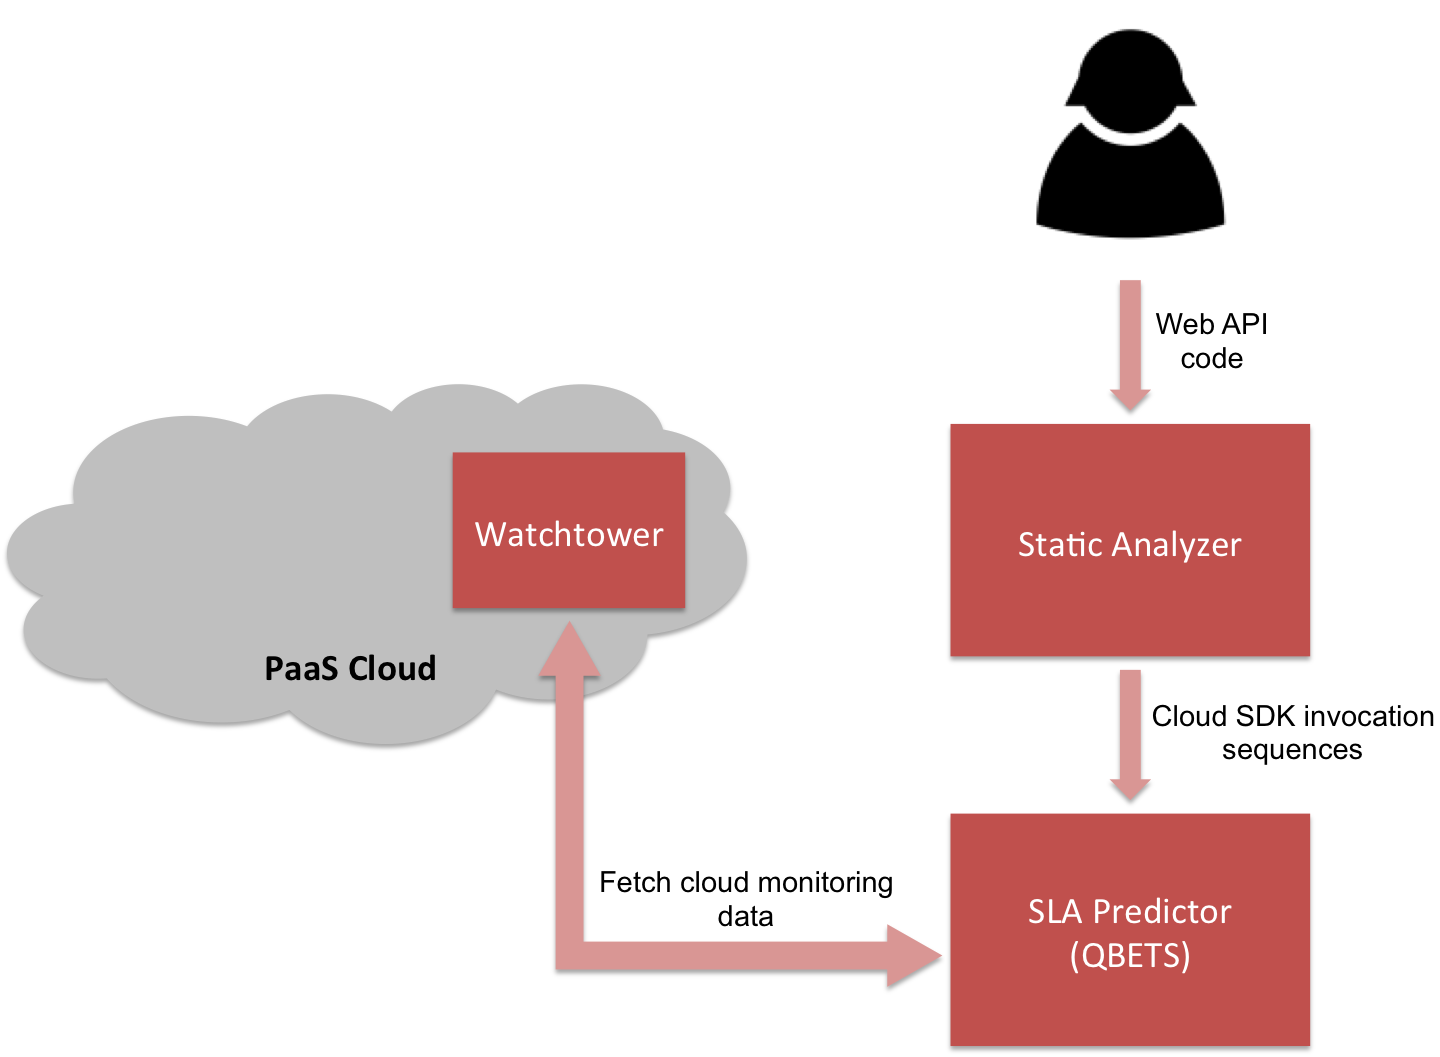
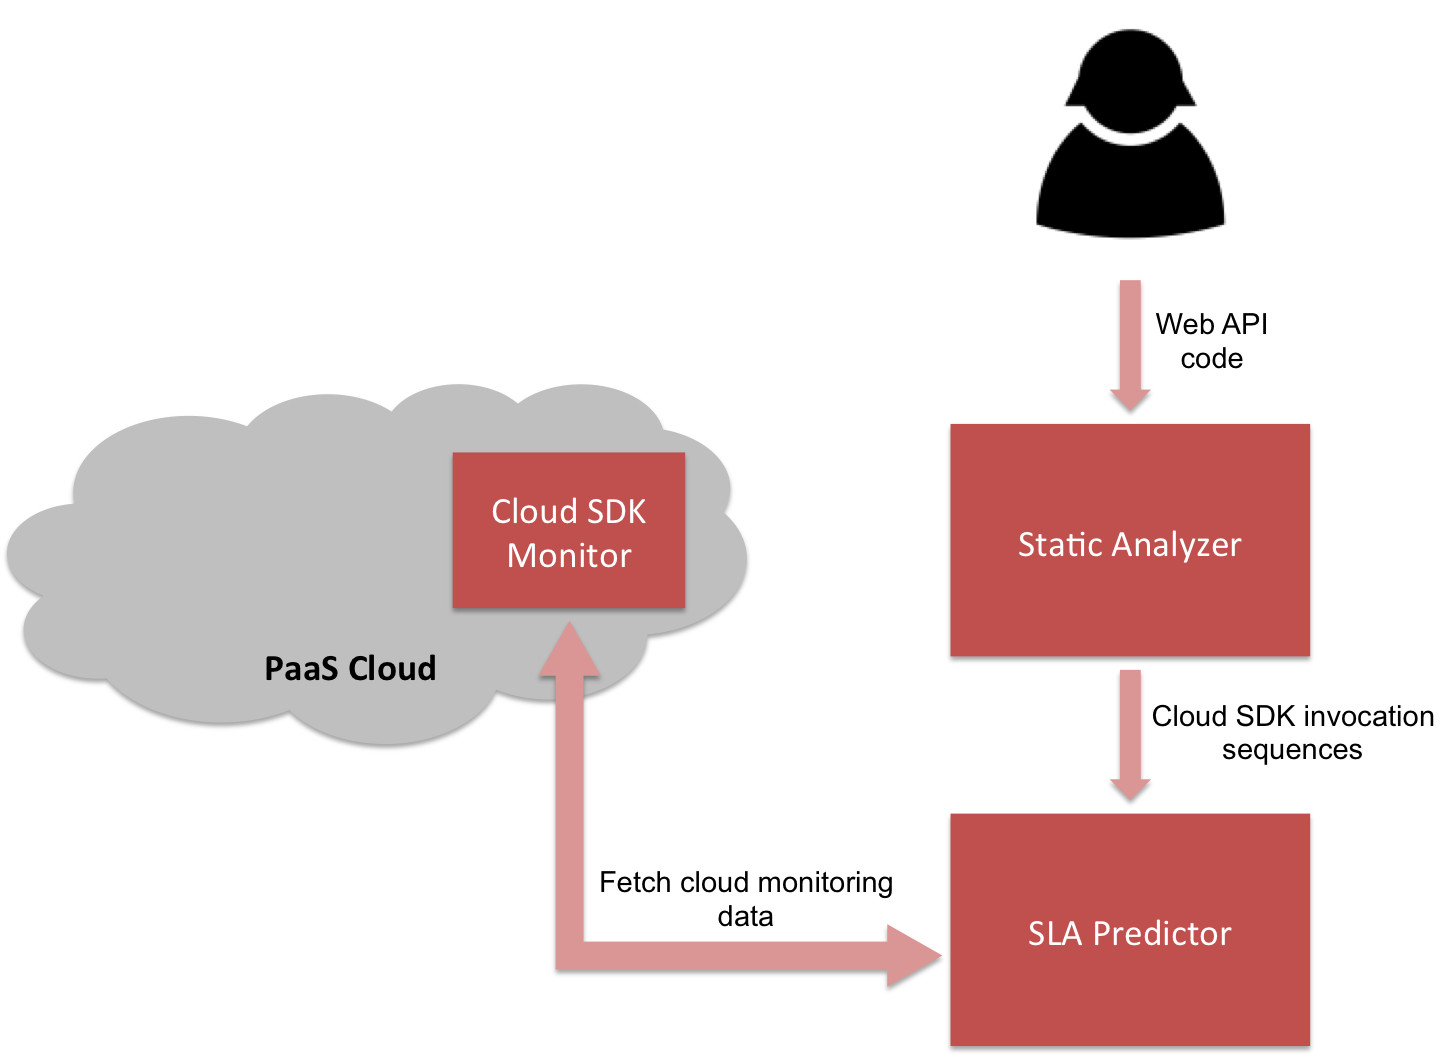
updated design section

Changed region(s): [[0.7188, 0.843, 0.8438, 0.9366], [0.3125, 0.4683, 0.4688, 0.5307]]

diff --git a/Eager/paper/oopsla/design.tex b/Eager/paper/oopsla/design.tex
@@ -11,6 +11,16 @@ code.
 \item A monitoring agent that runs in the target cloud platform to monitor the performance of its individual cloud SDK
 operations.
 \end{itemize}
+
+\begin{figure}
+\centering
+\includegraphics[scale=0.35]{cerebro_arch}
+\caption{Cerebro architecture and component interactions.}
+\label{fig:cerebro_arch}
+\end{figure}
+
+Additionally, we need a component that combines the results generated by above two components
+to make SLA predictions. Figure~\ref{fig:cerebro_arch} shows an overview of the resulting architecture.
  
  \subsection{Program Static Analysis Component}
  This component analyzes the source code (or some intermediate representation of it), to identify
@@ -242,19 +252,19 @@ of the API execution time, with an upper confidence of 0.01, we should feed QBET
 contains at least 90 data points. Watchtower should take this into consideration, when garbage collecting old
 time series data. %That is, it should always keep enough data points so that QBETS have enough data to analyze.
 
-\subsection{Overall Architecture and Workflow}
+\subsection{Cerebro Workflow}
 
-\begin{figure}
-\centering
-\includegraphics[scale=0.35]{cerebro_arch}
-\caption{Cerebro architecture and component interactions.}
-\label{fig:cerebro_arch}
-\end{figure}
+%\begin{figure}
+%\centering
+%\includegraphics[scale=0.35]{cerebro_arch}
+%\caption{Cerebro architecture and component interactions.}
+%\label{fig:cerebro_arch}
+%\end{figure}
 
-Figure~\ref{fig:cerebro_arch} illustrates all the components of Cerebro and how they interact with each other. 
+%Figure~\ref{fig:cerebro_arch} illustrates all the components of Cerebro and how they interact with each other. 
 Cerebro can be called into action by the web API developers, either at the development time or when the
 API is ready to be deployed in the cloud. Developer submits the web API source code (or some intermediate
-representation of it) to Cerebro, which is then processed by the static analyzer component. The static
+representation of it) to Cerebro, which is processed by the static analyzer. The static
 analyzer extracts the sequences of cloud SDK invocations from the web API code, and hands them over
 to the SLA predictor. SLA predictor then contacts Watchtower to retrieve the relevant cloud SDK operation
 benchmark data (time series). Afterwards it aggregates the received time series data, and processes
@@ -266,10 +276,8 @@ The resulting Cerebro predictions can be used in many ways. In the simplest case
 used to clearly document the API SLAs, so that API consumers can stay informed about what 
 type of performance to expect from the APIs they use. In a somewhat advanced context, Cerebro
 predictions can guide the API developers on how to program web APIs to support highly competitive
-SLAs. On the same note, the Cerebro predictions can provide cloud administrators with
-useful insights regarding potential issues and performance bottlenecks in the cloud platform. In an
+SLAs. In an
 even more sophisticated environment, the Cerebro predictions can be used to enforce SLA-related
-policies on web APIs deployed in the cloud. For example, one may implement a policy engine which ensures
-that all APIs deployed in the cloud have execution times under some preferred limit. Such an implementation
+policies on web APIs deployed in the cloud. Such an implementation
 can run Cerebro on web APIs as they are submitted for deployment, and reject any APIs that do not
-support the required performance level.
+support the desired performance level.
